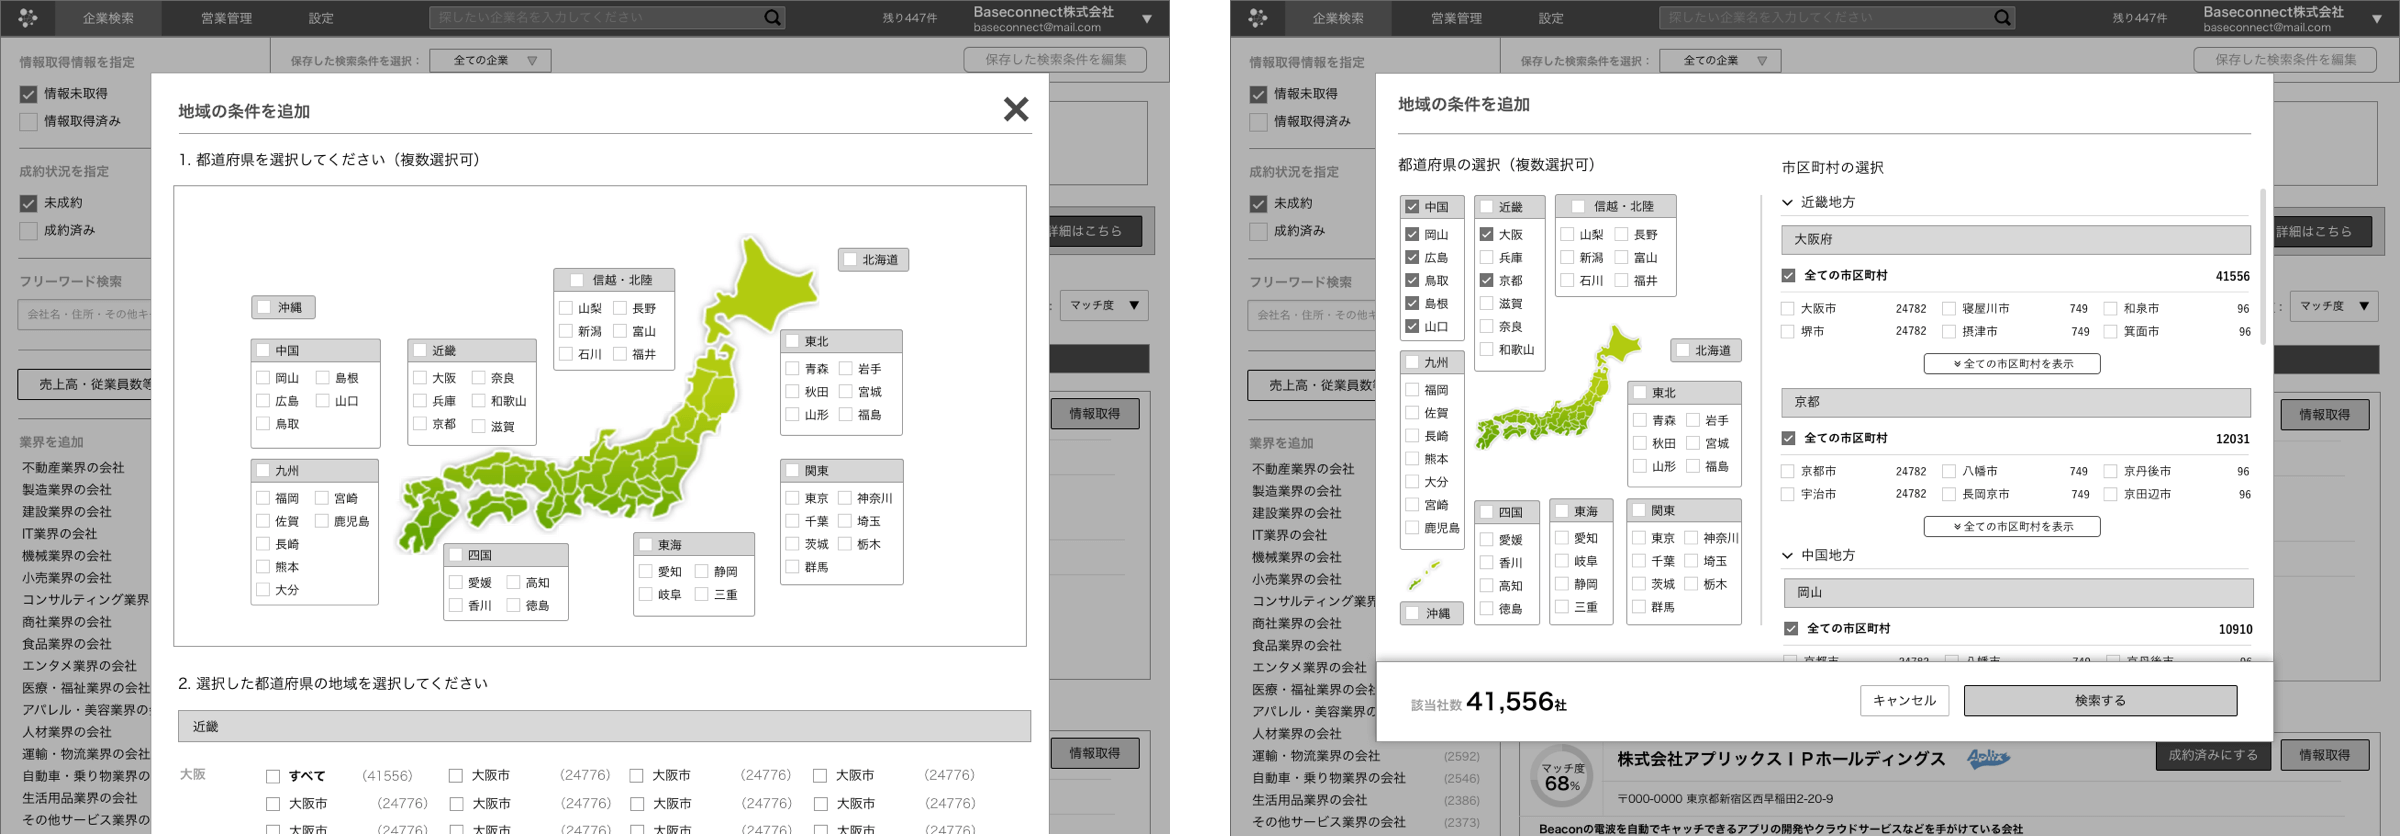
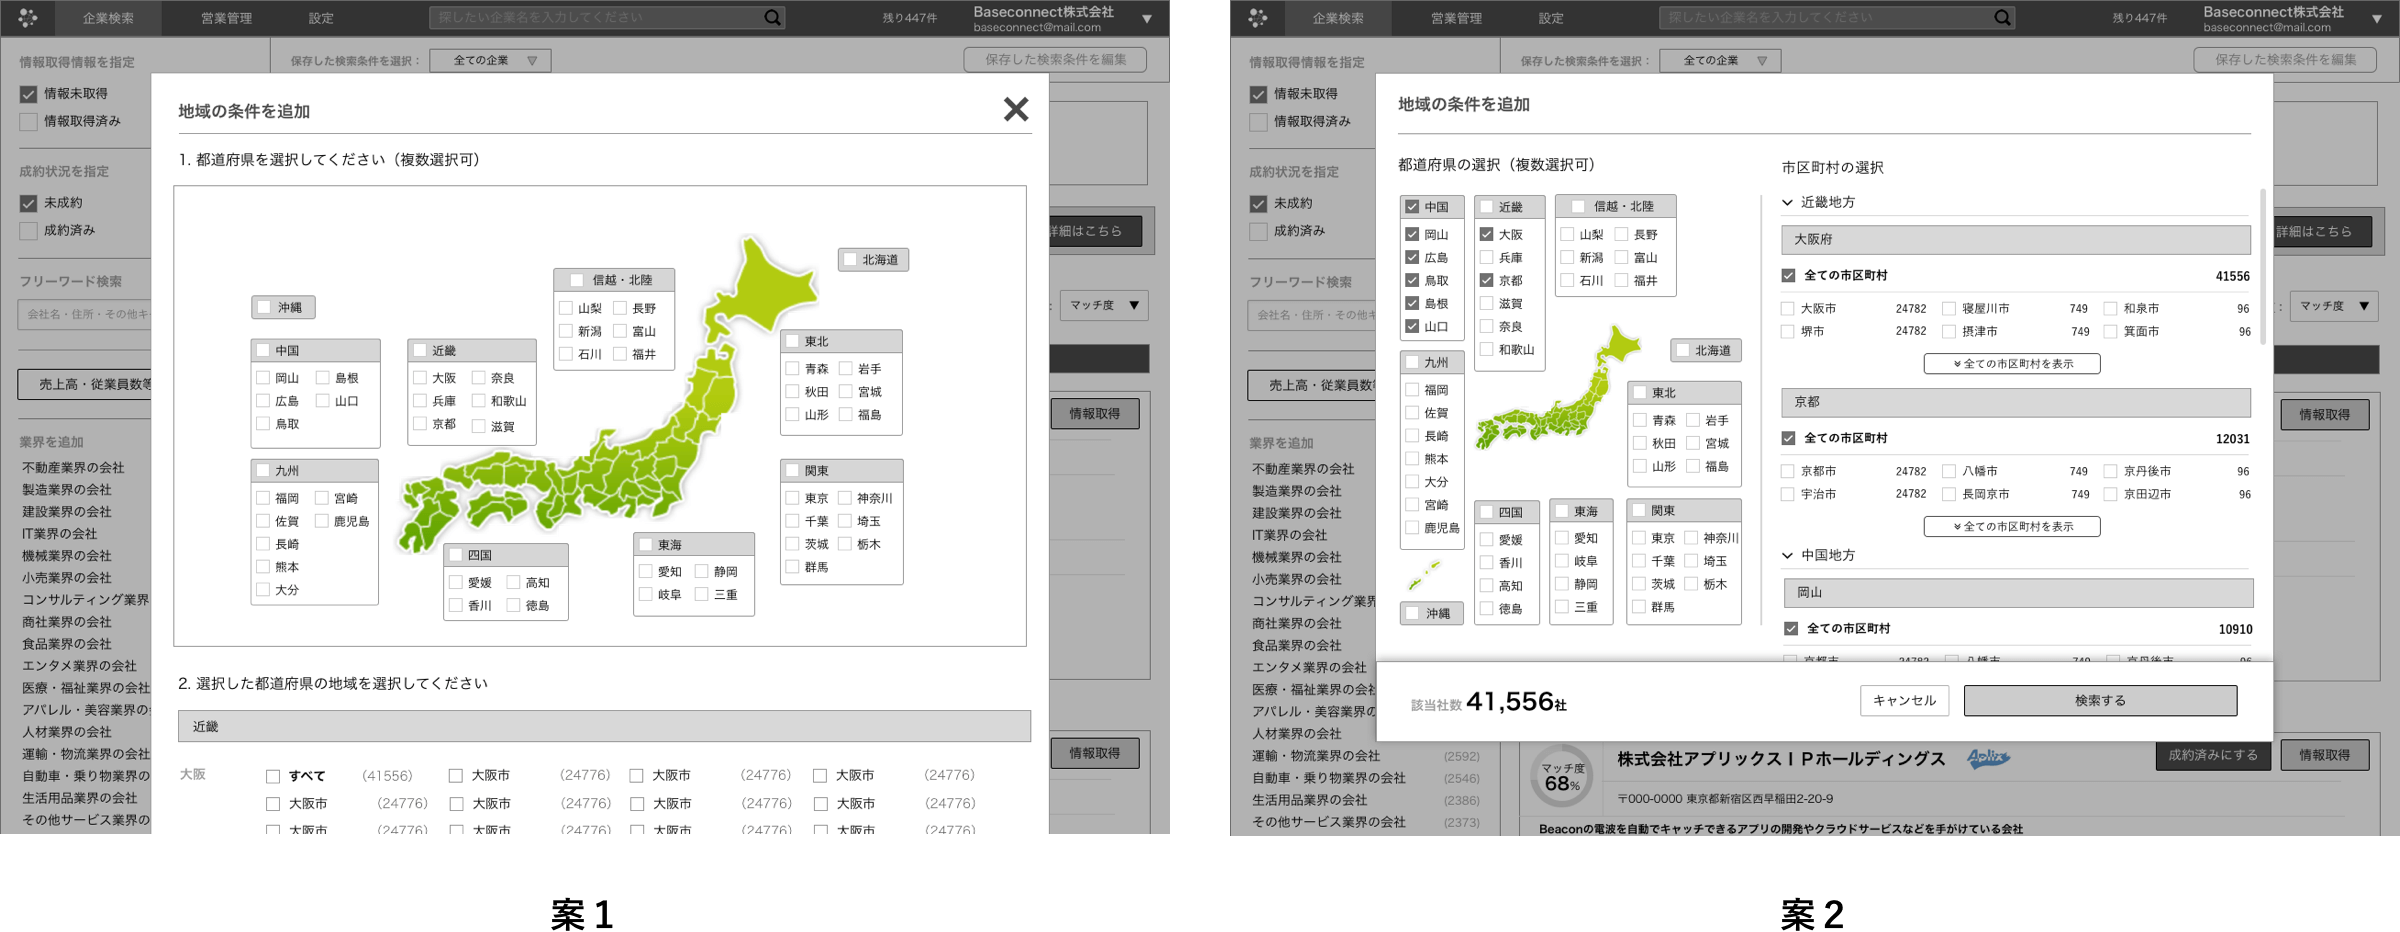
article内容細部調整

diff --git a/pages/baseconnect/baseconnectList.js b/pages/baseconnect/baseconnectList.js
@@ -207,13 +207,13 @@ export default class LIST extends React.Component {
             <h2>Baseconnect LIST</h2>
             <a href="https://sales.baseconnect.in/" target="blank">https://sales.baseconnect.in/</a>
             <p className="page__desc">
-              「Baseconnect LIST」は法人営業におけるターゲティングや見込み客となりうる企業のリスト作成を圧倒的に効率化できるクラウドサービスです。β版のリリースから半年で5000社以上に導入いただいています。
+              「Baseconnect LIST」は法人営業におけるターゲティングや見込み客となりうる企業のリスト作成を圧倒的に効率化できるクラウドサービスです。リリースから1年で約10,000社に導入いただいています。
             </p>
           </Title>
           <Desc>
             <li>
               <p className="title">役割</p>
-              <p className="cont">UI/UXデザイン/コーディング（HTML/SCSS/React.js）</p>
+              <p className="cont">UI/UXデザイン/コーディング（React.js / SCSS）</p>
             </li>
           </Desc>
         </Section>
@@ -233,15 +233,15 @@ export default class LIST extends React.Component {
             </ul>
             <Image large>
               <img src="/static/image/work/list/list-output1.png" alt=""/>
-              <span>Top（企業情報一覧）</span>
+              <span>TOP（企業情報一覧）</span>
             </Image>
             <Image large>
               <img src="/static/image/work/list/list-output2.png" alt=""/>
-              <span>Detail（企業情報詳細）</span>
+              <span>DETAIL（企業情報詳細）</span>
             </Image>
             <Image large>
               <img src="/static/image/work/list/list-output3.png" alt=""/>
-              <span>Mobile</span>
+              <span>MOBILE</span>
             </Image>
           </Section>
           {/* コンテンツ1 */}
@@ -280,7 +280,7 @@ export default class LIST extends React.Component {
             <p>企業情報を探す検索軸の一つ、「都道府県選択」のUX改善を行いました。</p>
 
             <h5>（Before）</h5>
-            <p>本サービスでは、直感的な操作性を重視し、画面遷移が少ない仕様にしています。検索条件の指定は、サイドバーからほぼ全て指定可能で、検索結果がリロードなく瞬時に反映されます。しかし、このサイドバーにおいては、２点の課題がありました。</p>
+            <p>本サービスでは、直感的な操作性を重視し、画面遷移が少ない仕様にしています。検索条件はサイドバーから全て指定可能で、検索結果がリロードなく瞬時に反映されます。しかし、このサイドバーにおいては、2点の課題がありました。</p>
             <h5>（課題）</h5>
             <ul>
               <li>1. サイドバーが長くなりすぎて、どんな検索項目があるか一目でわかりづらい</li>
@@ -309,16 +309,16 @@ export default class LIST extends React.Component {
             </Image>
             <p>案1のUIでは、表示領域が広いため一覧性においては優れています。しかし、都道府県を複数選択した場合、選択した分だけ縦にスクロールしなくてはいけないため、直感的な操作性を損なうと判断し、案2を採用しました。</p>
 
-            <h5>（NGになった案１）</h5>
             <Image>
               <img src="/static/image/work/list/list-capture6.png" alt=""/>
-              <span>（都道府県を複数選択した場合、縦に長すぎてスクロールする必要が生じる）</span>
+              <span>（項目数が多くなり、直感的な操作性を損なうと判断されNG）</span>
             </Image>
 
+            <h5>（アウトプットデザイン）</h5>
             <p>採用された案2は一覧性に欠けるのがデメリットですが、レスポンシブに対応させ、デバイス画面幅に合わせ表示領域を広くさせました。</p>
             <Image>
               <img src="/static/image/work/list/list-capture7.png" alt=""/>
-              <span>（アウトプット：レスポンシブデザインに対応させ、なるべく一覧性を欠かないように）</span>
+              <span>（レスポンシブデザインに対応させ、なるべく一覧性を欠かないように）</span>
             </Image>
           </Section>
 
@@ -326,7 +326,7 @@ export default class LIST extends React.Component {
           <Section grey>
             <h3><span className="h3__inner">3. モバイル対応</span></h3>
             <p>Baseconnect LISTはPC環境のみの提供になっており、アプリ化の案も出ていましたが、デザイナーが対応できる範囲で実装を行いました。
-              ワイヤーからデザイン、コーディングまで1人で対応し、最終段階はエンジニアと共同して開発を行いました。</p>
+              ワイヤーからデザイン、コーディングまで1人で対応し、最終段階はエンジニアと共働して開発を行いました。</p>
             <Image large>
               <img src="/static/image/work/list/list-capture8.png" alt=""/>
               <span>（ワイヤーフレーム）</span>

diff --git a/pages/baseconnect/baseconnectBootcamp.js b/pages/baseconnect/baseconnectBootcamp.js
@@ -226,6 +226,7 @@ export default class Bootcamp extends React.Component {
             <p>8ヶ月間で約160名が説明会に参加し、40名がカリキュラム受講、内5名がインターンとして現在も活動しています。</p>
 
             <h4>フィードバックする側として意識していたこと</h4>
+            <p>自分もまだまだデザイナーとして成長段階ではあるものの、人に何かを教える / フィードバックするという経験は、思った以上に学ぶことがありました。相手の学習 / 成長を促進できるように、フィードバックする際は下記のポイントを心がけました。</p>
             <ul>
               <li>・どんなプロセスで学習 / アウトプットをしたかに耳を傾ける</li>
               <li>・相手が何でつまずき、どうすれば次の壁を乗り越えられるかを一緒に考える</li>
@@ -234,7 +235,6 @@ export default class Bootcamp extends React.Component {
               <li>・道具の使い方はなるべく教えない</li>
               <li>・デザインする際の視点、わからないことの調べ方、作業のプロセスに関して助言する</li>
             </ul>
-            <p>自分もまだまだ成長段階ではあるものの、人に何かを教える / フィードバックするという経験は、思った以上に学ぶことが多かったです。相手の学習 / 成長を促進できるように、フィードバックする際は上記のポイントを心がけました。</p>
 
           </Section>
         </Content>

diff --git a/.next/static/runtime/webpack.js b/.next/static/runtime/webpack.js
@@ -113,7 +113,7 @@
 /******/
 /******/ 	var hotApplyOnUpdate = true;
 /******/ 	// eslint-disable-next-line no-unused-vars
-/******/ 	var hotCurrentHash = "90c1ff47089730a250e9";
+/******/ 	var hotCurrentHash = "65c4bc8242b44cd7e537";
 /******/ 	var hotRequestTimeout = 10000;
 /******/ 	var hotCurrentModuleData = {};
 /******/ 	var hotCurrentChildModule;
